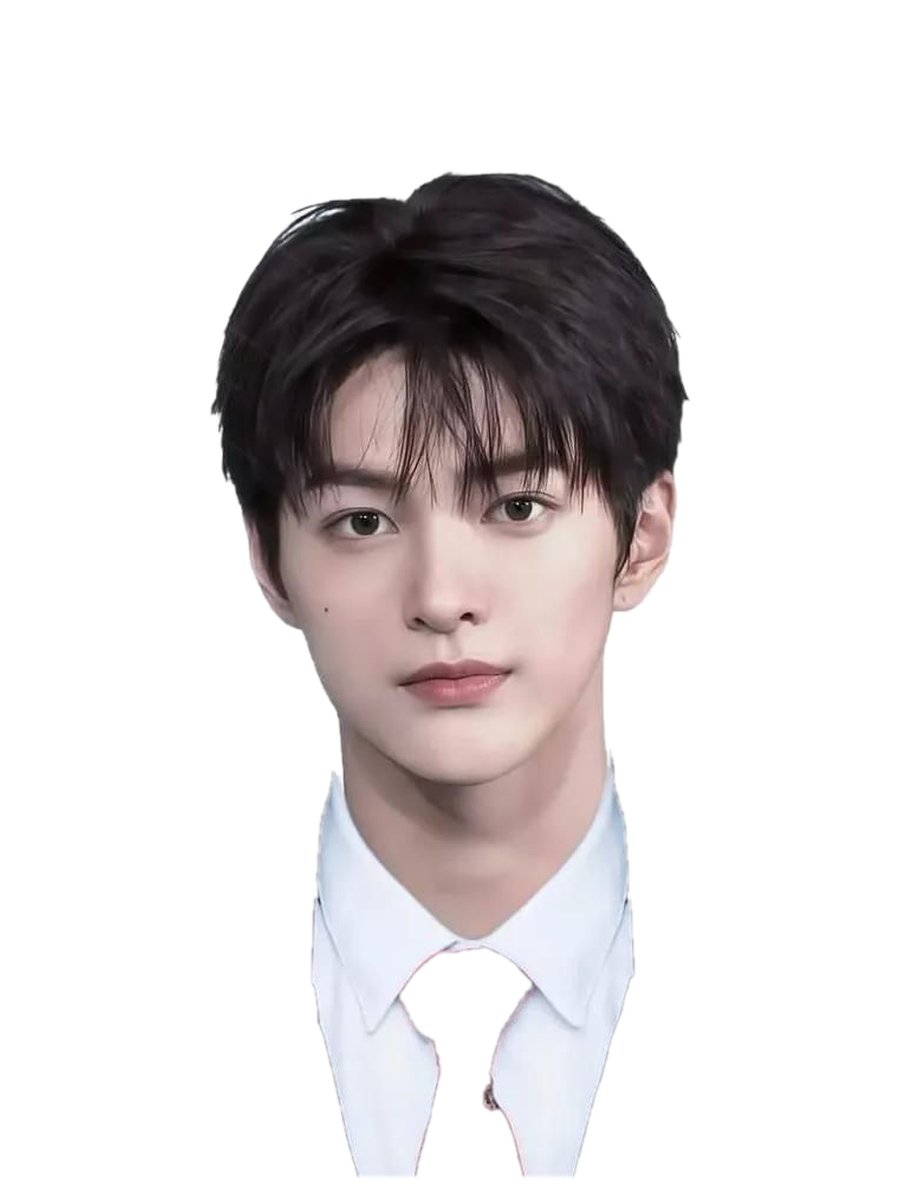
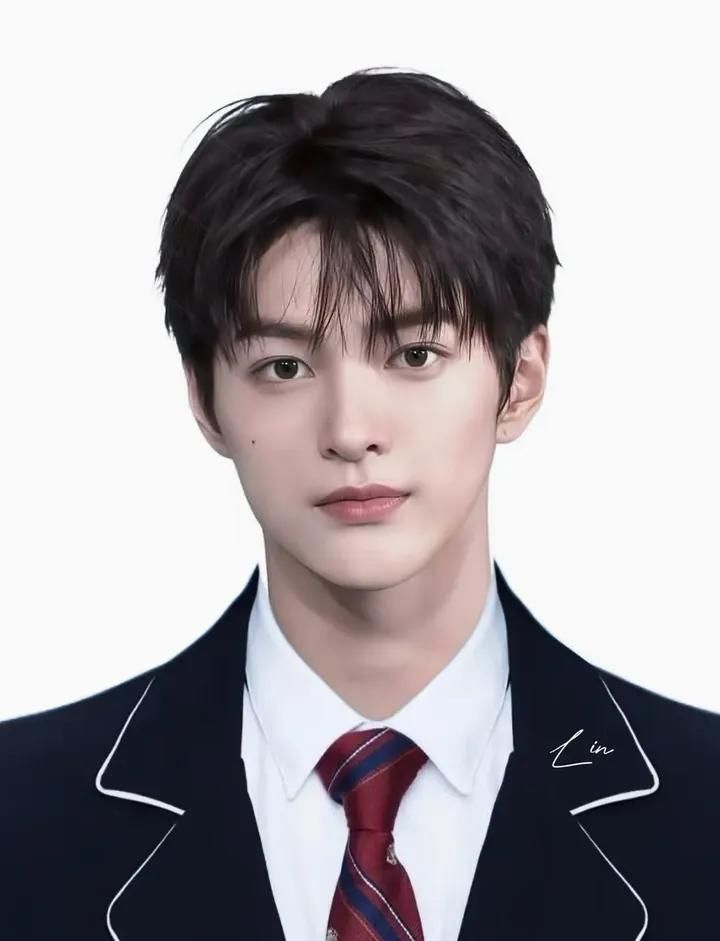
Add files via upload

diff --git a/index.html b/index.html
@@ -54,15 +54,15 @@
         <h2>캐릭터 선택</h2>
         <div class="choices">
           <button class="character-option" data-character="flat" type="button" aria-pressed="false">
-            <span class="thumb"><img src="flat.png" alt=""></span>
+            <span class="thumb"><img src="flat.png?v=20261104-defaults-v5" alt=""></span>
             <span><strong>평평이</strong><small>😐 으악!</small></span>
           </button>
           <button class="character-option active" data-character="beoreok" type="button" aria-pressed="true">
-            <span class="thumb"><img src="beoreok.png" alt=""></span>
+            <span class="thumb"><img src="beoreok.png?v=20261104-defaults-v5" alt=""></span>
             <span><strong>버럭씨</strong><small>💢 장난하냐!</small></span>
           </button>
           <button class="character-option" data-character="abang" type="button" aria-pressed="false">
-            <span class="thumb"><img src="abang.png" alt=""></span>
+            <span class="thumb"><img src="abang.png?v=20261104-defaults-v5" alt=""></span>
             <span><strong>아방이</strong><small>💧 아파....</small></span>
           </button>
         </div>
@@ -74,7 +74,7 @@
           <div class="speech" id="speech" role="status" aria-live="polite">왜 불렀는데?</div>
           <div class="portrait-space">
             <div class="portrait-glow"></div>
-            <img id="portrait" class="portrait" src="beoreok.png" alt="버럭씨" draggable="false">
+            <img id="portrait" class="portrait" src="beoreok.png?v=20261104-defaults-v5" alt="버럭씨" draggable="false">
             <div id="effects" class="effects" aria-hidden="true"></div>
           </div>
         </section>
@@ -103,7 +103,7 @@
       </div>
       <p class="comments-note">댓글을 쓰려면 GitHub 계정으로 로그인해야 해요.</p>
     </section>
-    <footer>JUST FOR FUN · v4 FIX</footer>
+    <footer>JUST FOR FUN · v5</footer>
   </div>
 <script>
 /**
@@ -130,7 +130,7 @@ let portraitRequest = 0;
 let audioCtx = null;
 const responseIndex = {flat:-1, beoreok:-1, abang:-1};
 
-const basePaths = id => [`${id}.png`, `characters/${id}.png`];
+const basePaths = id => [`${id}.png?v=20261104-defaults-v5`, `characters/${id}.png?v=20261104-defaults-v5`];
 // 사진이 저장소 루트에 있어도, reactions 폴더에 있어도 자동으로 찾아요.
 const reactionPaths = (id,direction) => [
   `${id}-${direction}.webp`,
